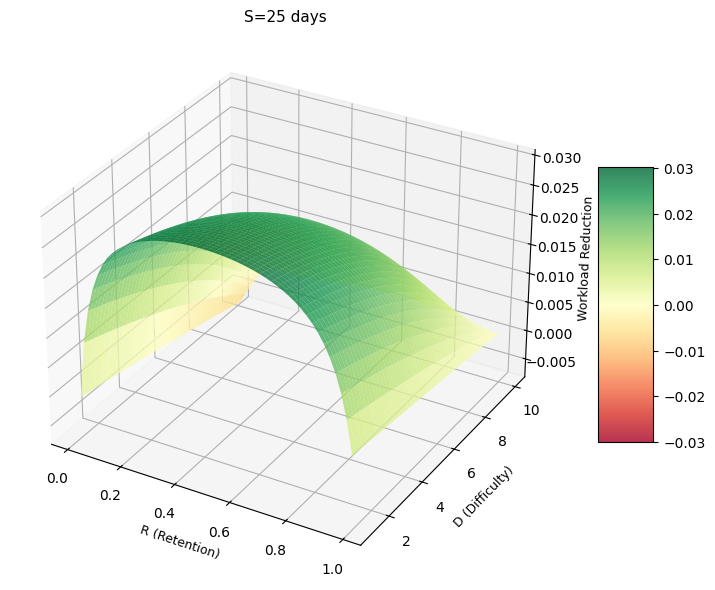
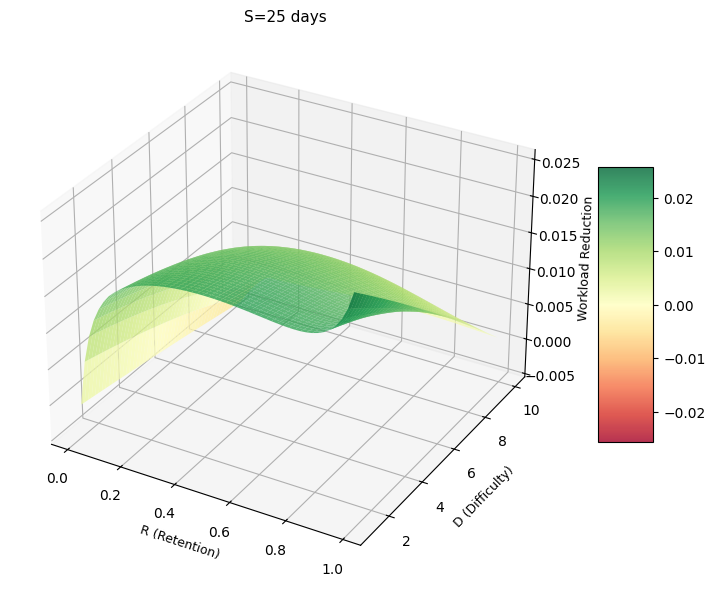
Use interval to compute workload instead of S

diff --git a/workload_analysis.py b/workload_analysis.py
@@ -64,21 +64,37 @@ class FSRS6_Standalone:
 
         return torch.minimum(new_s_calc, new_minimum_s)
 
+    def forgetting_curve(self, t, s, decay=None):
+        """Calculate retention R(t) at time t for given stability s"""
+        if not decay:
+            decay = self.w[20]
+        factor = 0.9 ** (1 / decay) - 1
+        return (1 + factor * t / s) ** decay
+
+    def interval_from_retention(self, r, s, decay=None):
+        """Calculate time t when retention drops to r for given stability s"""
+        if not decay:
+            decay = self.w[20]
+        factor = 0.9 ** (1 / decay) - 1
+        return s * (r ** (1 / decay) - 1) / factor
+
 
 def calculate_workload_reduction(R: torch.Tensor, S: float, D: float, fsrs: FSRS6_Standalone) -> torch.Tensor:
-    """Calculate workload reduction: (1/S) - (1/S_new)"""
+    """Calculate workload reduction using actual review intervals at retention R"""
     S_tensor = torch.tensor(S, dtype=torch.float32)
 
     S_success = fsrs.calculate_success_stability(S_tensor, D, R)
     S_failure = fsrs.calculate_failure_stability(S_tensor, D, R)
 
-    rel_increase_success = S_success / S
-    rel_decrease_failure = S_failure / S
+    # Expected stability after review (weighted by success/failure probability)
+    S_new = R * S_success + (1 - R) * S_failure
 
-    expected_increase_mean = R * rel_increase_success + (1 - R) * rel_decrease_failure
+    # Workload = 1 / interval, where interval is when retention drops to R
+    interval_init = fsrs.interval_from_retention(R, S)
+    interval_after = fsrs.interval_from_retention(R, S_new)
 
-    workload_init = 1 / S
-    workload_after = 1 / (S * expected_increase_mean)
+    workload_init = 1 / interval_init
+    workload_after = 1 / interval_after
     return workload_init - workload_after
 
 
